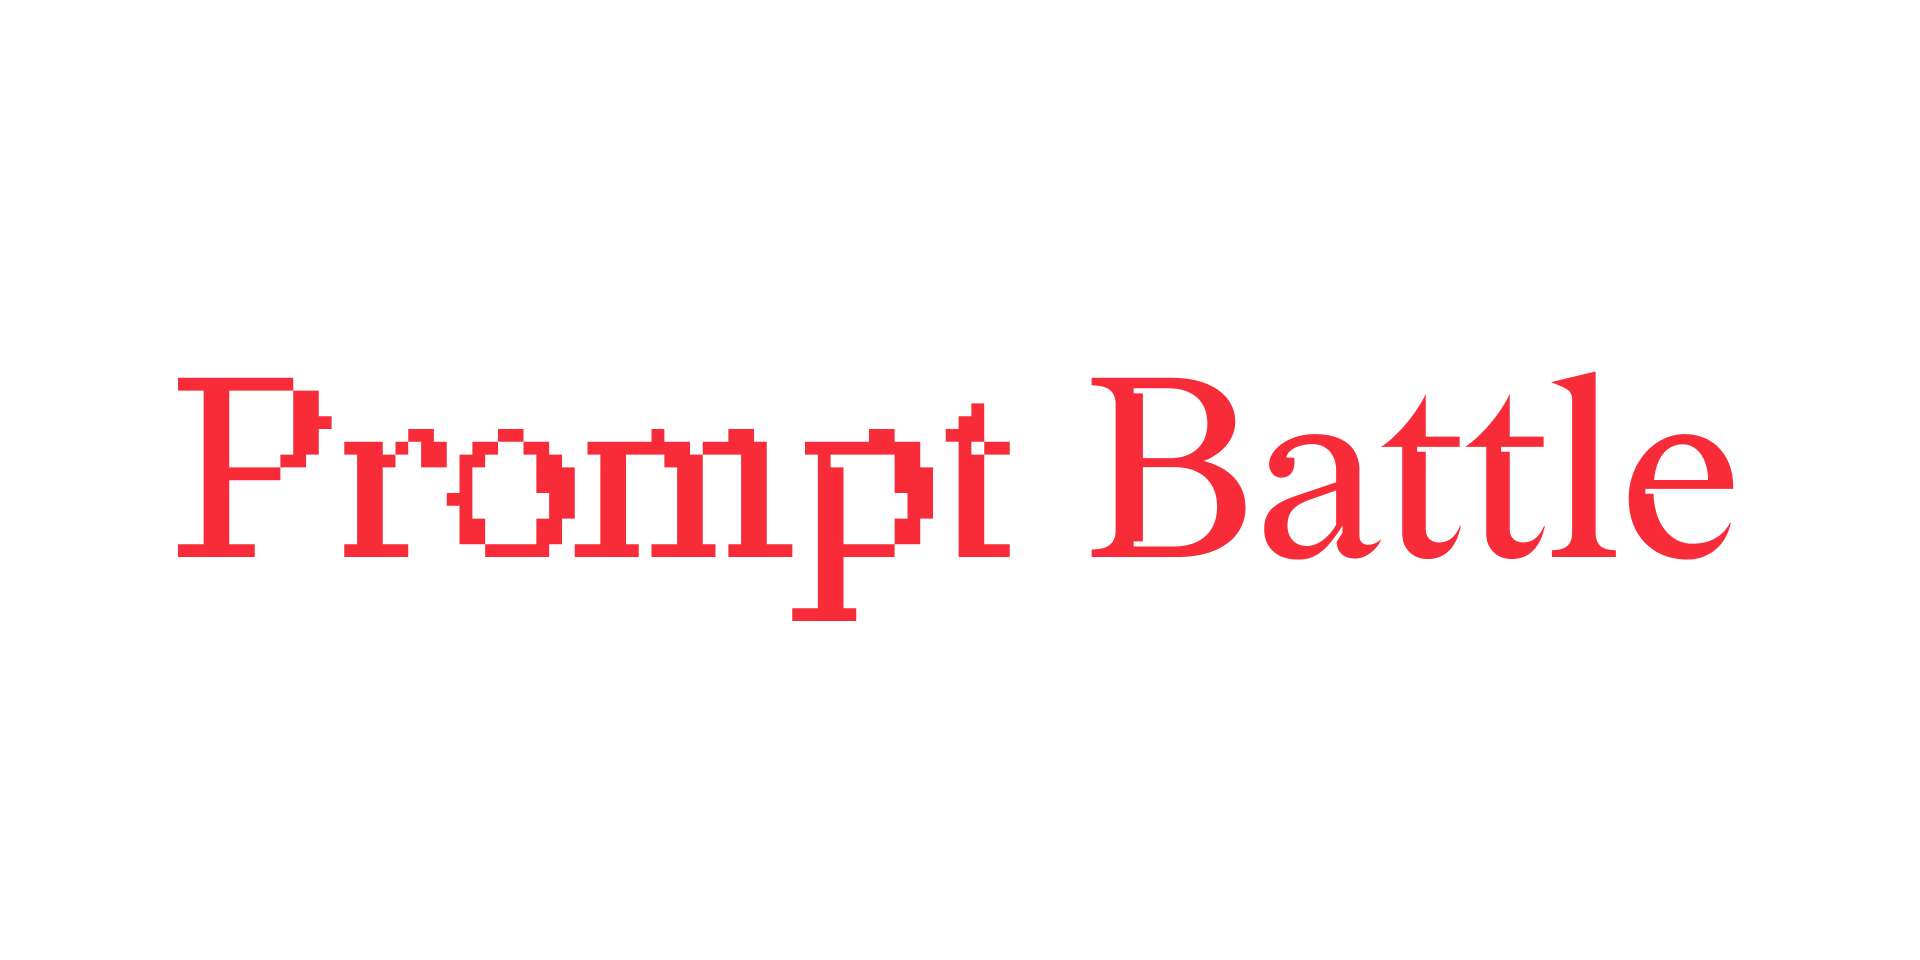
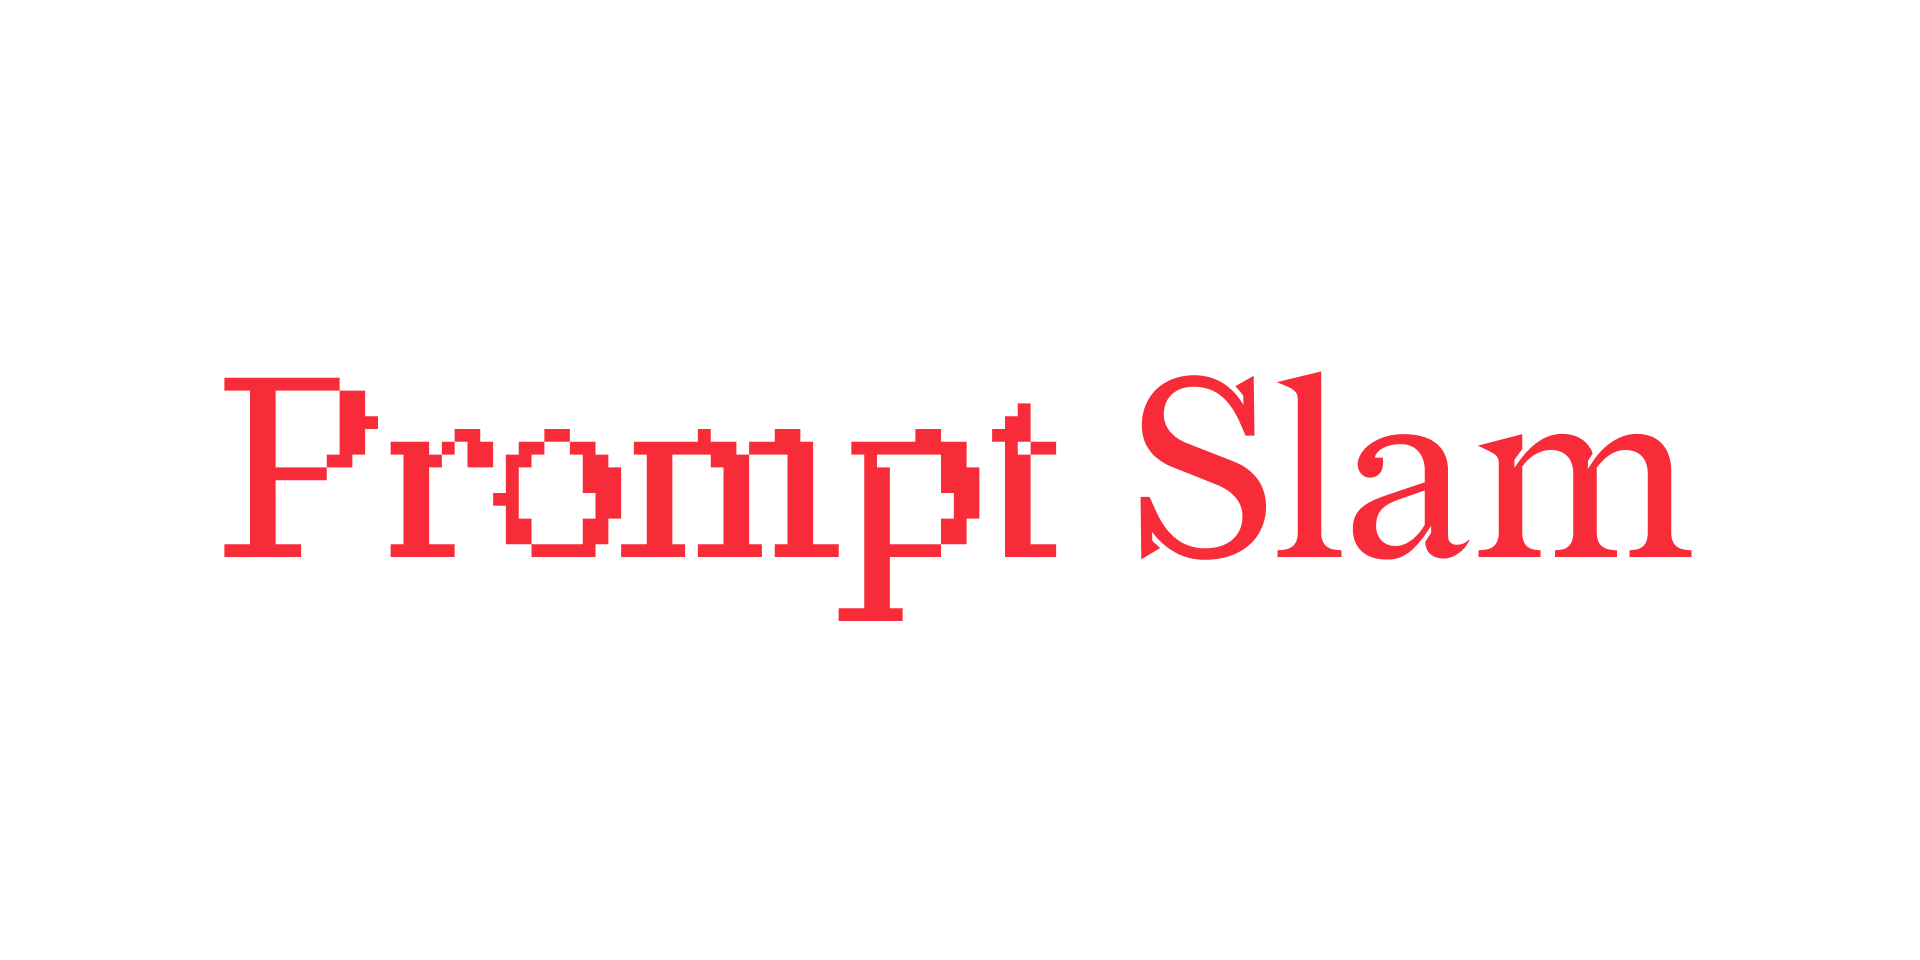
Rename to prompt slam

Changed region(s): [[0.0938, 0.375, 0.9062, 0.6562]]

diff --git a/src/routes/+layout.svelte b/src/routes/+layout.svelte
@@ -34,32 +34,32 @@
 
 <!-- Add Meta Tags for Open Graph Protocol -->
 <MetaTags
-	title="Prompt Battle"
-	description="Battle each other in an amazing prompt battle using the power of DALL-E."
+	title="Prompt Slam"
+	description="Battle each other in an amazing prompt slam using the power of DALL-E."
 	openGraph={{
 		url: $page.url.href,
-		title: 'Prompt Battle',
+		title: 'Prompt Slam',
 		description:
-			'Battle each other in an amazing prompt battle using the power of DALL-E.',
+			'Battle each other in an amazing prompt slam using the power of DALL-E.',
 		images: [
 			{
 				url: `${$page.url.origin}/og-image.png`,
 				width: 1200,
 				height: 630,
-				alt: 'Prompt Battle'
+				alt: 'Prompt Slam'
 			}
 		],
-		site_name: 'Prompt Battle'
+		site_name: 'Prompt Slam'
 	}}
 	twitter={{
 		handle: '@handle',
 		site: '@site',
 		cardType: 'summary_large_image',
-		title: 'Prompt Battle',
+		title: 'Prompt Slam',
 		description:
-			'Battle each other in an amazing prompt battle using the power of DALL-E.',
+			'Battle each other in an amazing prompt slam using the power of DALL-E.',
 		image: `${$page.url.origin}/twitter-image.png`,
-		imageAlt: 'Prompt Battle'
+		imageAlt: 'Prompt Slam'
 	}}
 	facebook={{
 		appId: '1234567890'

diff --git a/src/lib/layout/Header.svelte b/src/lib/layout/Header.svelte
@@ -23,7 +23,7 @@
 			class:text-slate-900={$colorizedBackground === true}
 		>
 			Prompt <span class="font-redaction group-hover:animate-pixelate-font-0-50"
-				>Battle</span
+				>Slam</span
 			>
 		</h1>
 	</a>

diff --git a/src/routes/+page.svelte b/src/routes/+page.svelte
@@ -29,7 +29,7 @@
 			<ThemeSwitch />
 		</div>
 		<div class="ml-auto">
-			<Button label="Start the battle" href="/prompt" />
+			<Button label="Start the slam" href="/prompt" />
 		</div>
 	</ActionBar>
 </div>

diff --git a/README.md b/README.md
@@ -1,20 +1,20 @@
 ![README Header](./.github/readme-header.png)
 
-# The Promp Fight Interface
+# The Promp Slam Interface
 
-> Battle each other in an amazing prompt fight using the power of DALL-E.
+> Battle each other in an amazing prompt slam using the power of DALL-E.
 
-A prompt fight (also known as a prompt battle) is an event format invented by [Florian A. Schmidt](https://florianalexanderschmidt.de/) and [Sebastian Schmieg](https://sebastianschmieg.com/) with design students from the [HTW Dresden](https://www.htw-dresden.de/).
+A Prompt Slam (also known as a prompt battle) is an event format invented by [Florian A. Schmidt](https://florianalexanderschmidt.de/) and [Sebastian Schmieg](https://sebastianschmieg.com/) with design students from the [HTW Dresden](https://www.htw-dresden.de/).
 
-During a prompt fight people compete against each other using text-to-image AI models. The audience then chooses one of the contestants as a winner.
-For an independent prompt fight event series, hosted at [HfK Bremen](https://www.hfk2020.de/), this interface was developed.
+During a Prompt Slam people compete against each other using text-to-image AI models. The audience then chooses one of the contestants as a winner.
+For an independent Prompt Slam event series, hosted at [HfK Bremen](https://www.hfk2020.de/), this interface was developed.
 
-You can read more about the original prompt battle [here](https://promptbattle.com/).
+You can read more about the original Prompt Slam [here](https://promptbattle.com/).
 
 ## 📝 Colophon
 
 - Fonts in use:
-  - [Redaction](https://www.redaction.us/) by [Jeremy Mickel](https://mckltype.com/)
+  - [Redaction](https://www.redaction.us/) by [Jeremy Mickel](https://mckltypeq.com/)
   - [Helvetica](https://www.linotype.com/de/1308886/helvetica-schriftfamilie.html) by Max Miedinger and Eduard Hoffmann
 - Technology:
   - Built with [SvelteKit](https://kit.svelte.dev/)
@@ -28,7 +28,7 @@ You can read more about the original prompt battle [here](https://promptbattle.c
 
 In this gamemode two contestants play against each other simultaneously.
 In the beginning they will both get an instruction on what they need to generate. They then have one minutes to simultaneously create a prompt.
-After that minute is over, they both click 'Generate' to generate an image.
+after that one minute is over, they both click 'Generate' to generate an image.
 
 The crowd then decides which of the contestant has generated the better image and that constestant goes to the next round.
 
